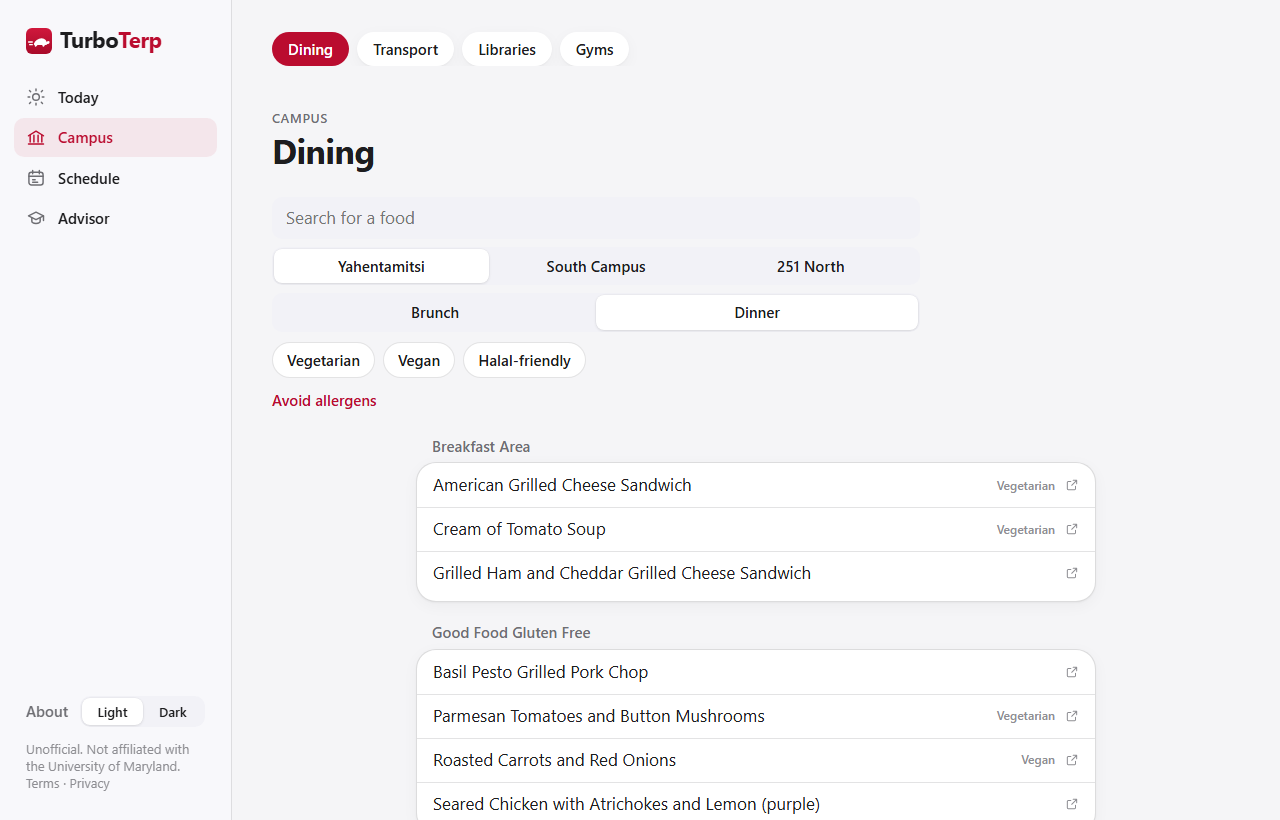
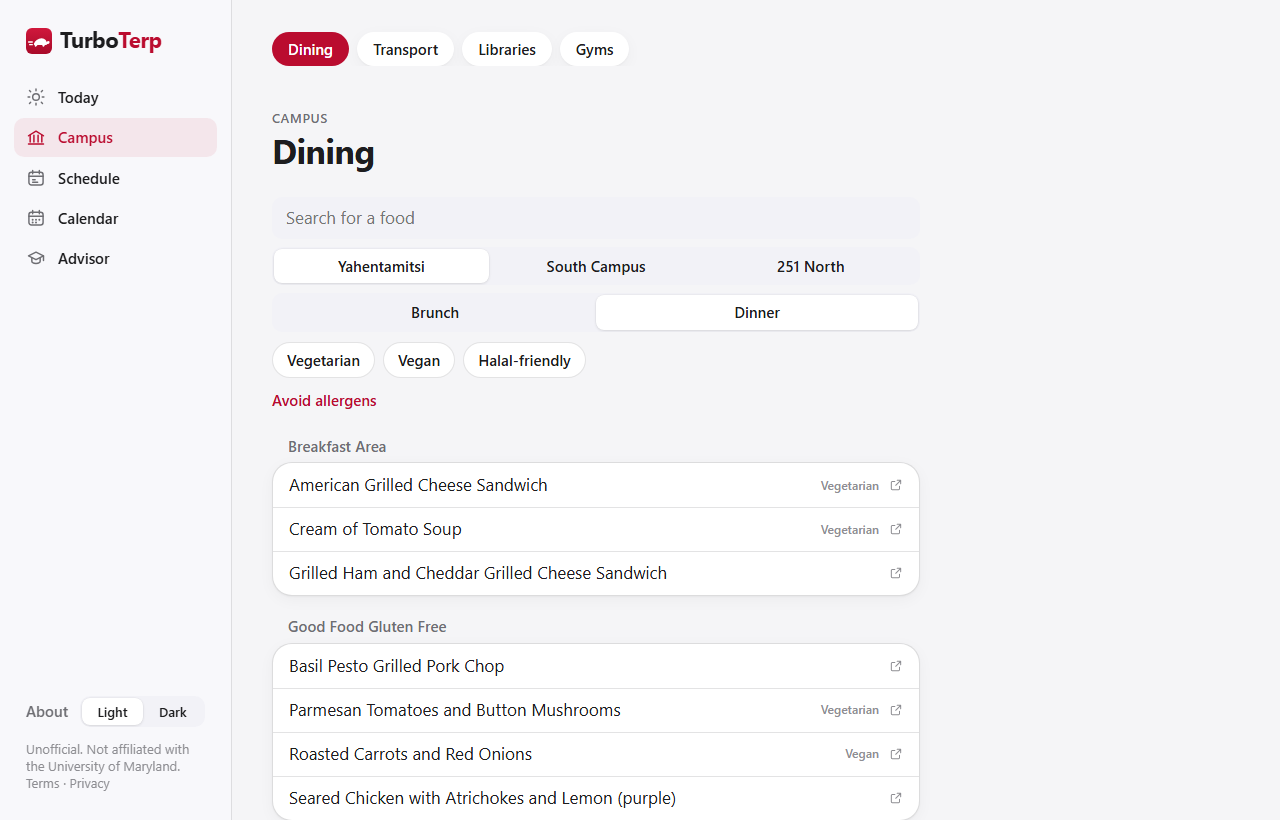
Dining redesign review: menu lines up with the controls; food names wrap

diff --git a/apps/web/app/campus/dining/dining.module.css b/apps/web/app/campus/dining/dining.module.css
@@ -45,8 +45,9 @@
   display: flex;
   flex-direction: column;
   gap: 20px;
-  max-width: 680px;
-  margin: 12px auto 0;
+  /* Lines up with the controls above, whose 680px includes their side padding. */
+  max-width: calc(680px - 2 * var(--gutter));
+  margin: 12px 0 0;
 }
 
 .stations > section {
@@ -54,8 +55,9 @@
 }
 
 .results {
-  max-width: 680px;
-  margin: 12px auto 0;
+  /* Lines up with the controls above, whose 680px includes their side padding. */
+  max-width: calc(680px - 2 * var(--gutter));
+  margin: 12px 0 0;
 }
 
 .stationCard {
@@ -72,7 +74,7 @@
 
 .items {
   margin: 0;
-  padding: 0 0 6px;
+  padding: 0;
   list-style: none;
 }
 
@@ -108,9 +110,8 @@
   flex: 1 1 auto;
   min-width: 0;
   font: var(--t-body);
-  overflow: hidden;
-  text-overflow: ellipsis;
-  white-space: nowrap;
+  /* Food names are the point of the page: wrap, never cut them off. */
+  overflow-wrap: anywhere;
 }
 
 .tags {
